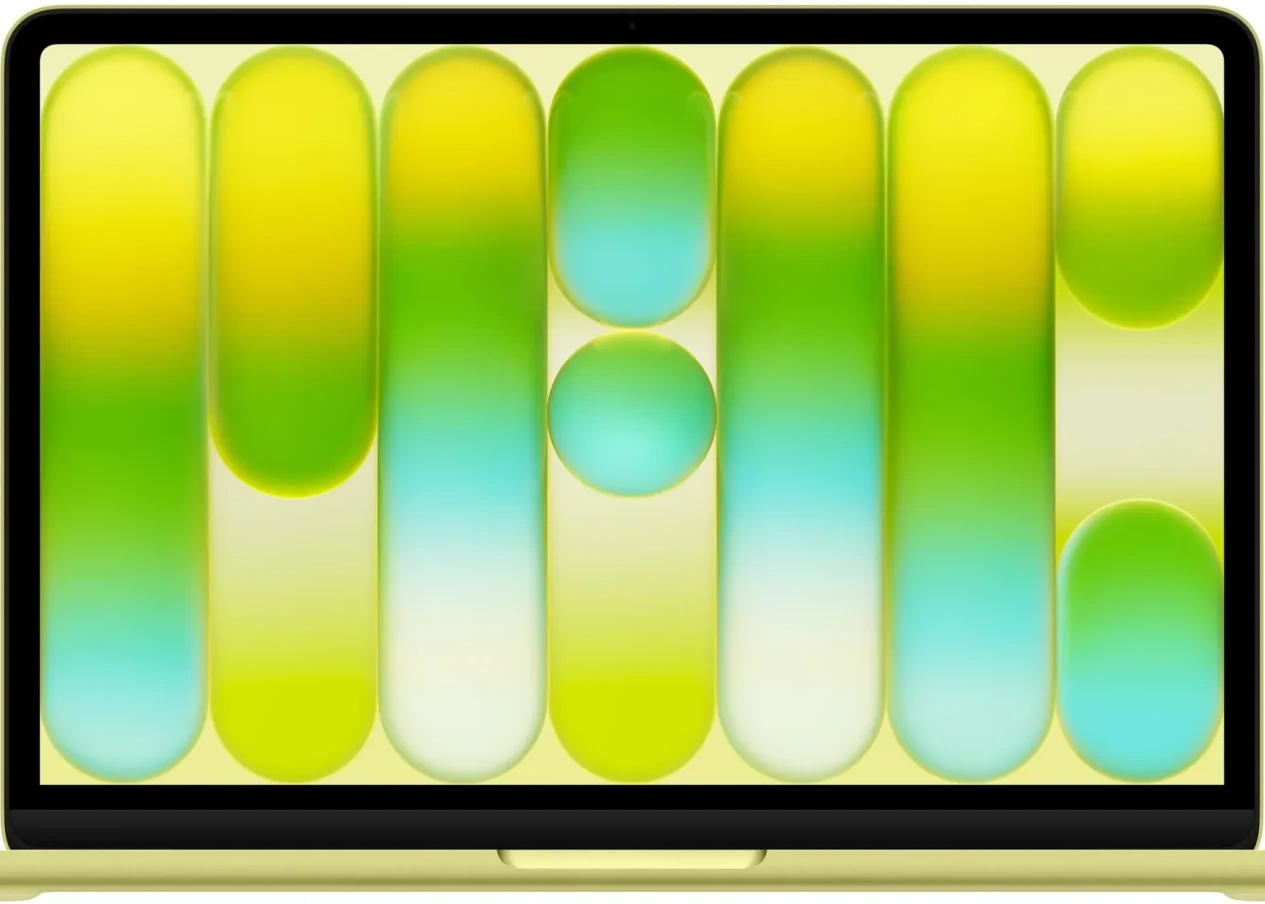
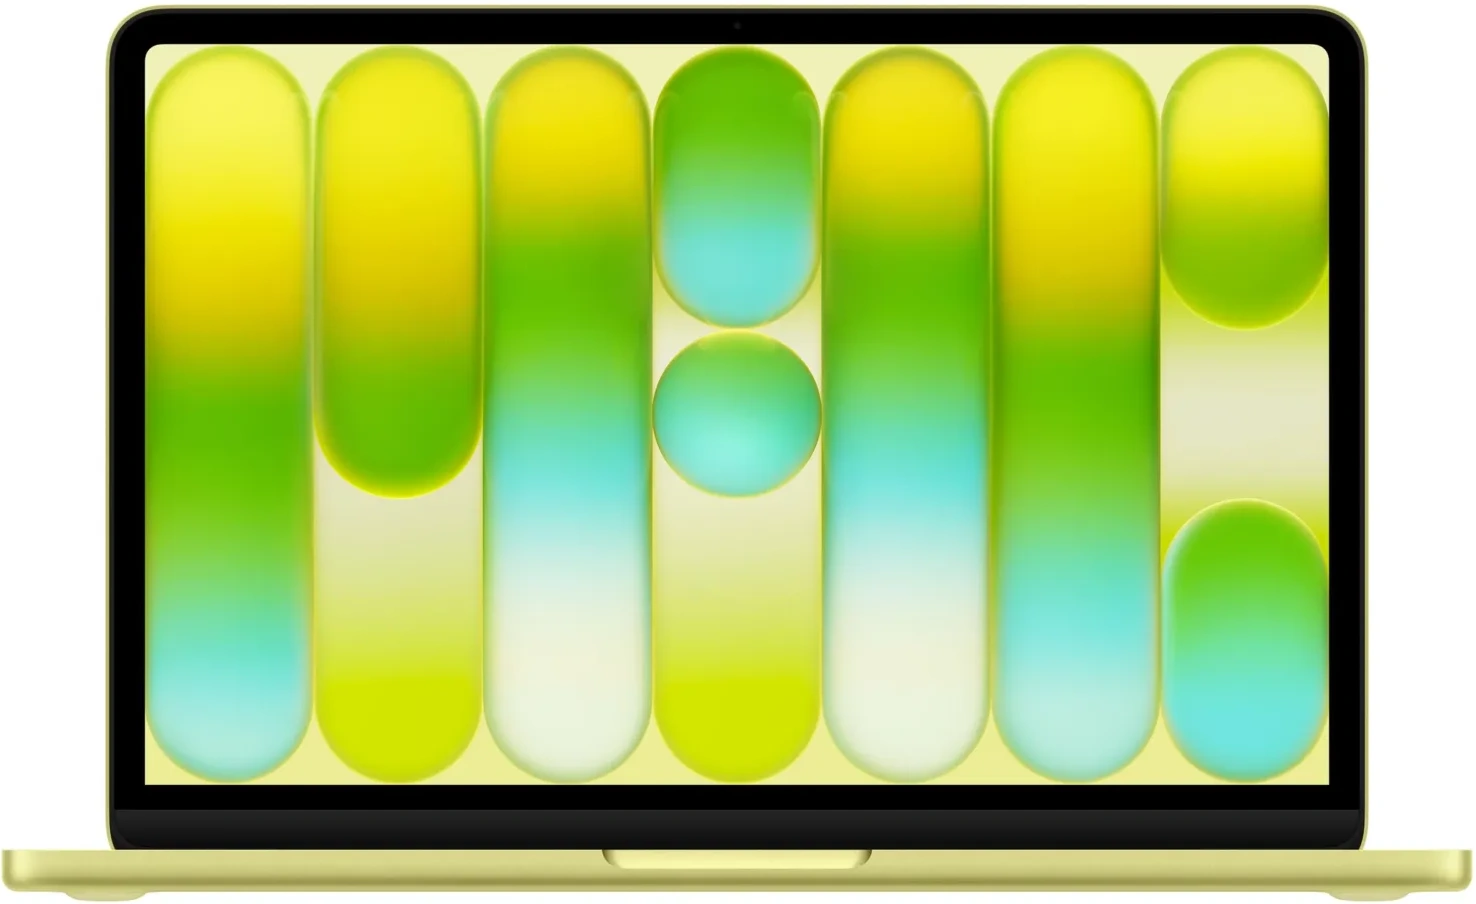
style: restore full MacBook width, show real cropped music notch on expand, and scale down active notch size

diff --git a/style.css b/style.css
@@ -248,8 +248,8 @@ nav {
 .mac-screen-overlay {
     position: absolute;
     top: 1.1%;
-    left: 3.08%;
-    width: 93.75%;
+    left: 9.76%;
+    width: 80.35%;
     height: 85.18%;
     border-radius: 6px;
     overflow: hidden;
@@ -337,14 +337,39 @@ nav {
     background: linear-gradient(to bottom, rgba(255, 255, 255, 0.09) 0%, rgba(255, 255, 255, 0) 100%);
     pointer-events: none;
     z-index: 2;
+    transition: opacity 0.3s ease;
+}
+
+.web-notch::after {
+    content: '';
+    position: absolute;
+    top: 0;
+    left: 0;
+    width: 100%;
+    height: 100%;
+    background: url('assets/notch_musica_cropped.png') no-repeat center/contain;
+    opacity: 0;
+    transition: opacity 0.4s var(--liquid-ease);
+    pointer-events: none;
+    z-index: 5;
+}
+
+.web-notch.active::before {
+    opacity: 0;
+}
+
+.web-notch.active::after {
+    opacity: 1;
+    transition-delay: 0.2s;
 }
 
 .web-notch.active {
-    width: 480px;
-    height: 180px;
-    border-radius: 0 0 40px 40px;
-    box-shadow: 0 30px 80px rgba(0, 0, 0, 0.7);
-    border: 1px solid rgba(255, 255, 255, 0.13);
+    width: 360px; /* Reduced width to match the aspect ratio of the real music notch */
+    height: 112px; /* Calculated from aspect ratio 3.215: 360 / 3.215 = 112 */
+    border-radius: 0;
+    box-shadow: none;
+    border-color: transparent;
+    background: transparent;
 }
 
 .notch-camera {
@@ -432,6 +457,7 @@ nav {
 }
 
 .island-expanded {
+    display: none !important; /* Replaced by the native high-resolution notch screenshot for pixel-perfect design */
     position: absolute;
     top: 0;
     left: 0;
@@ -2043,8 +2069,11 @@ footer.footer {
 
     .web-notch.active {
         width: 200px;
-        height: 70px;
-        border-radius: 0 0 12px 12px;
+        height: 62px; /* Adjusted to match the aspect ratio of the real music notch on mobile */
+        border-radius: 0;
+        box-shadow: none;
+        border: none;
+        background: transparent;
     }
 
     .island-expanded {
